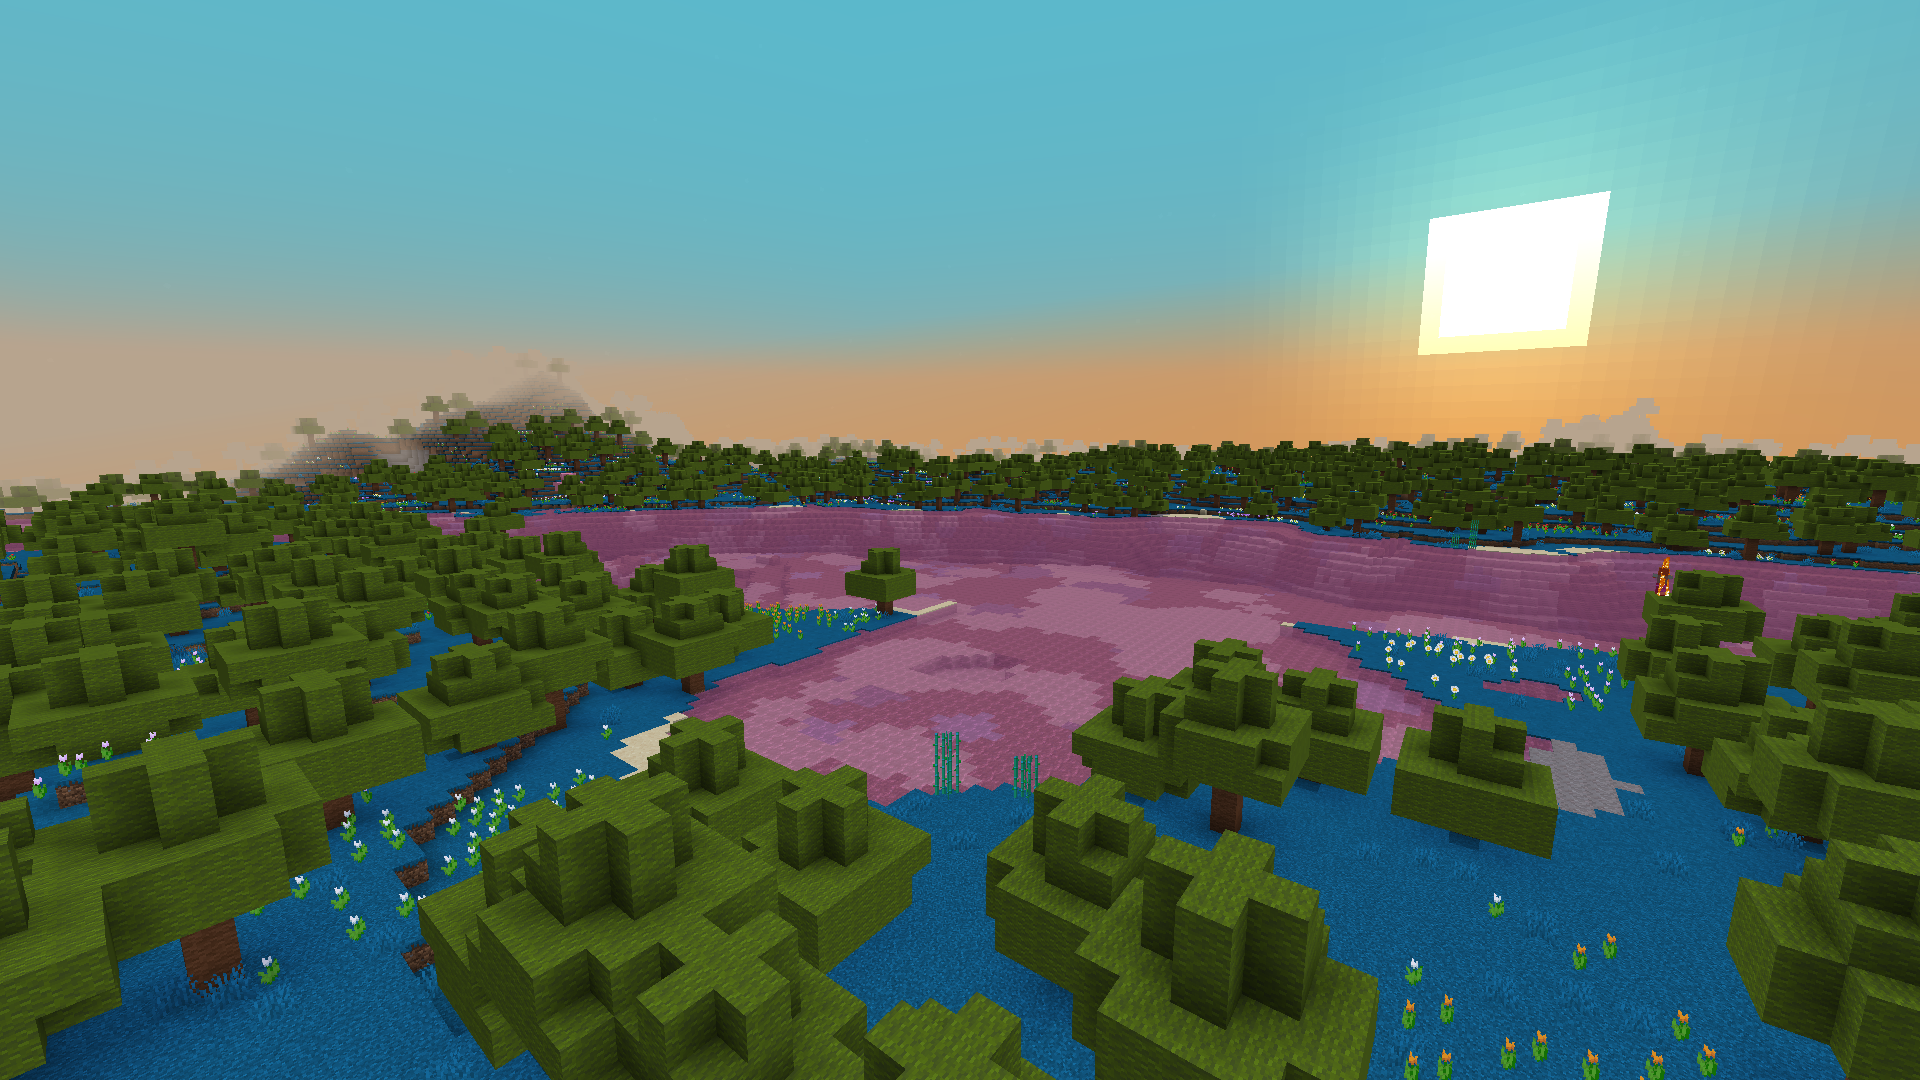
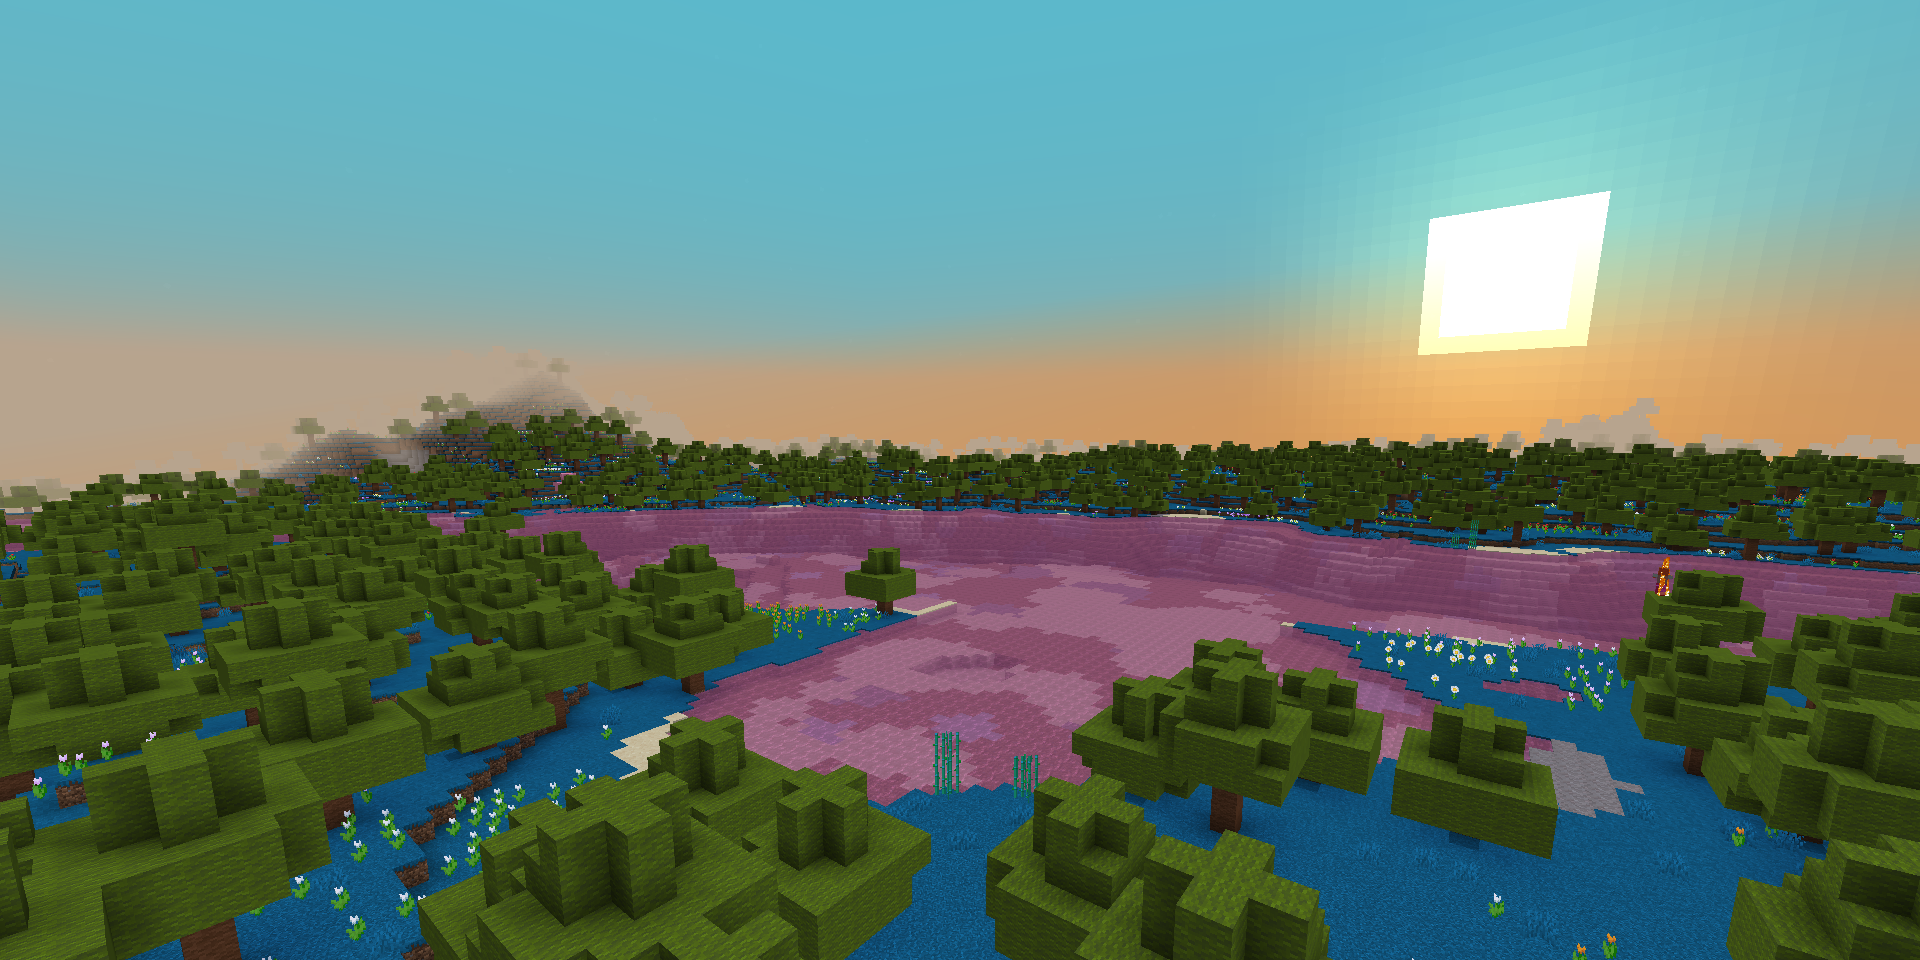
modified:   images/background.PNG 	modified:   index.html

diff --git a/index.html b/index.html
@@ -2,6 +2,6 @@
 <html>
     <head>
         <title>Darkplace</title>
-    <body background="https://jiajinxuan2009.github.io/images/background.PNG" style="background-repeat:no-repeat;background-size:100% 100%; background-attachment: fixed;">
+    <body background="images/background.PNG" style="background-repeat:no-repeat;background-size:100% 100%; ">
     </body>
 </html>
